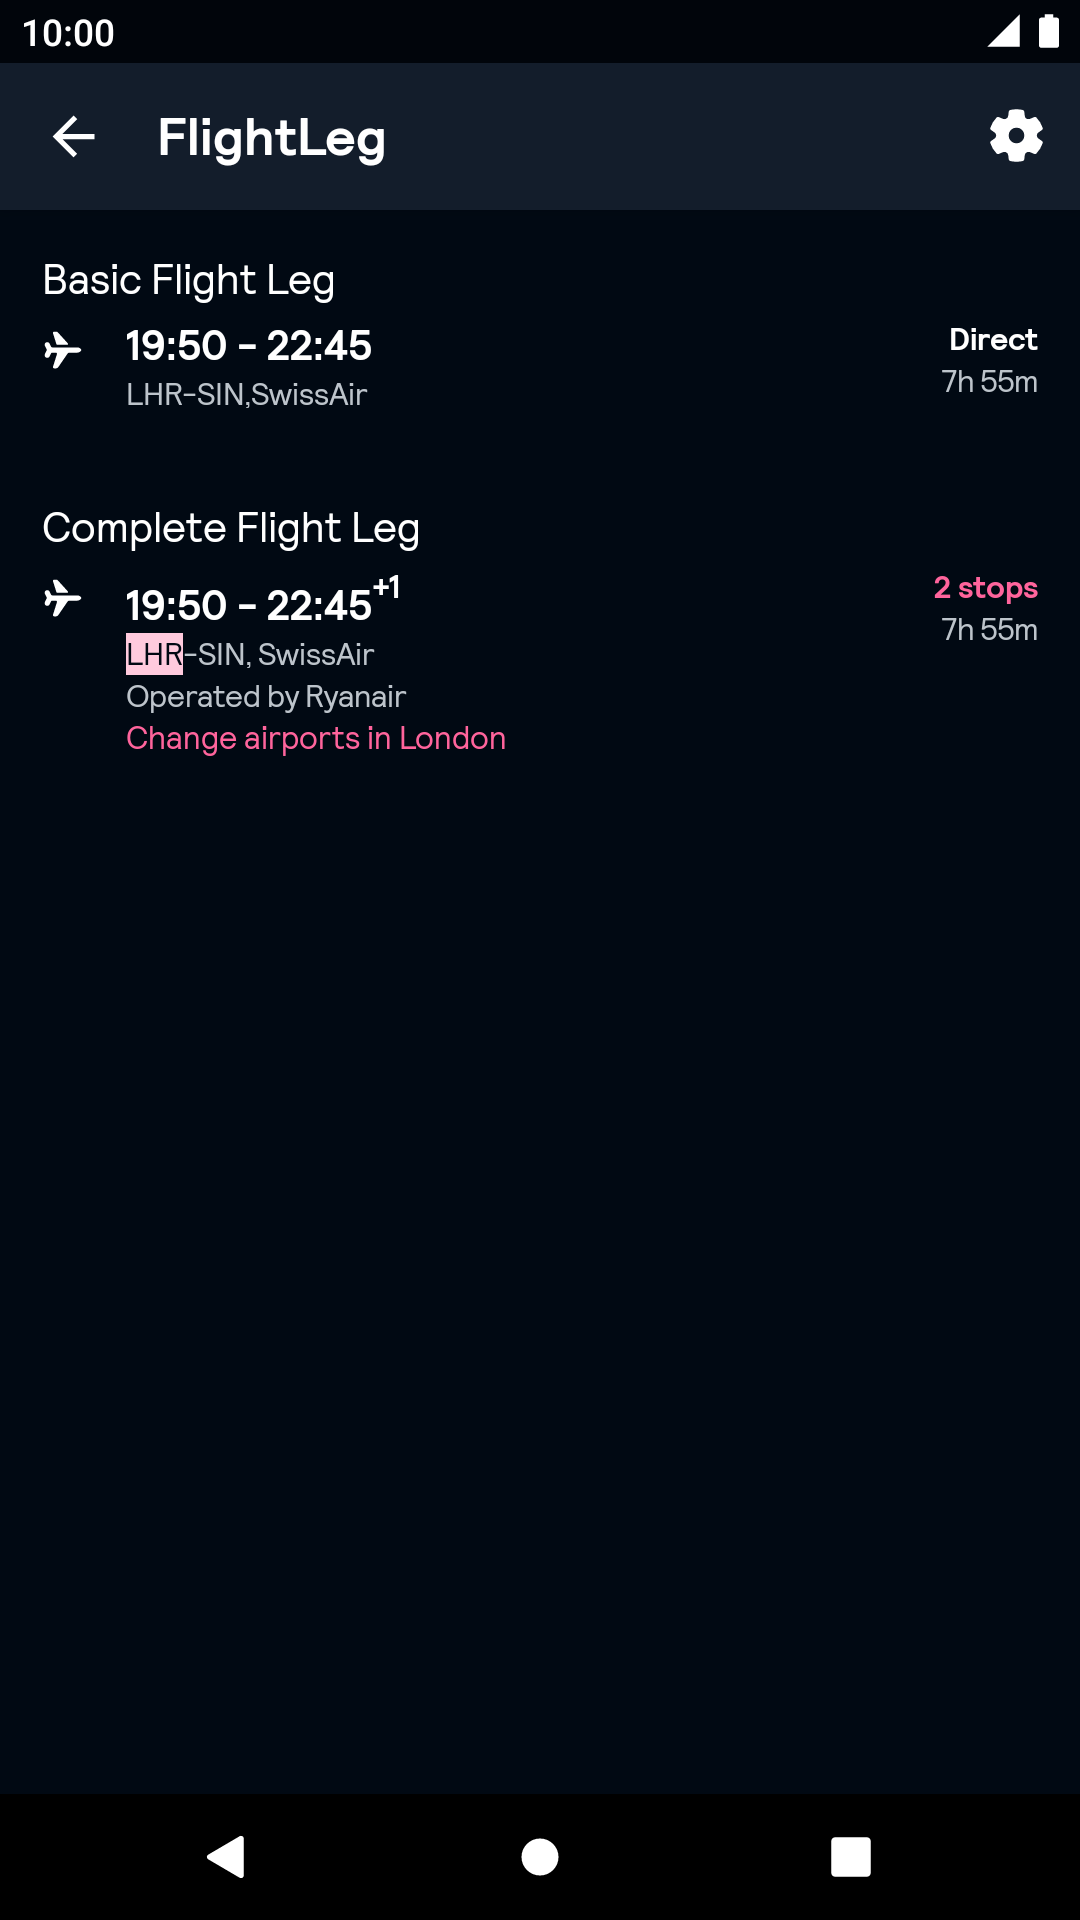
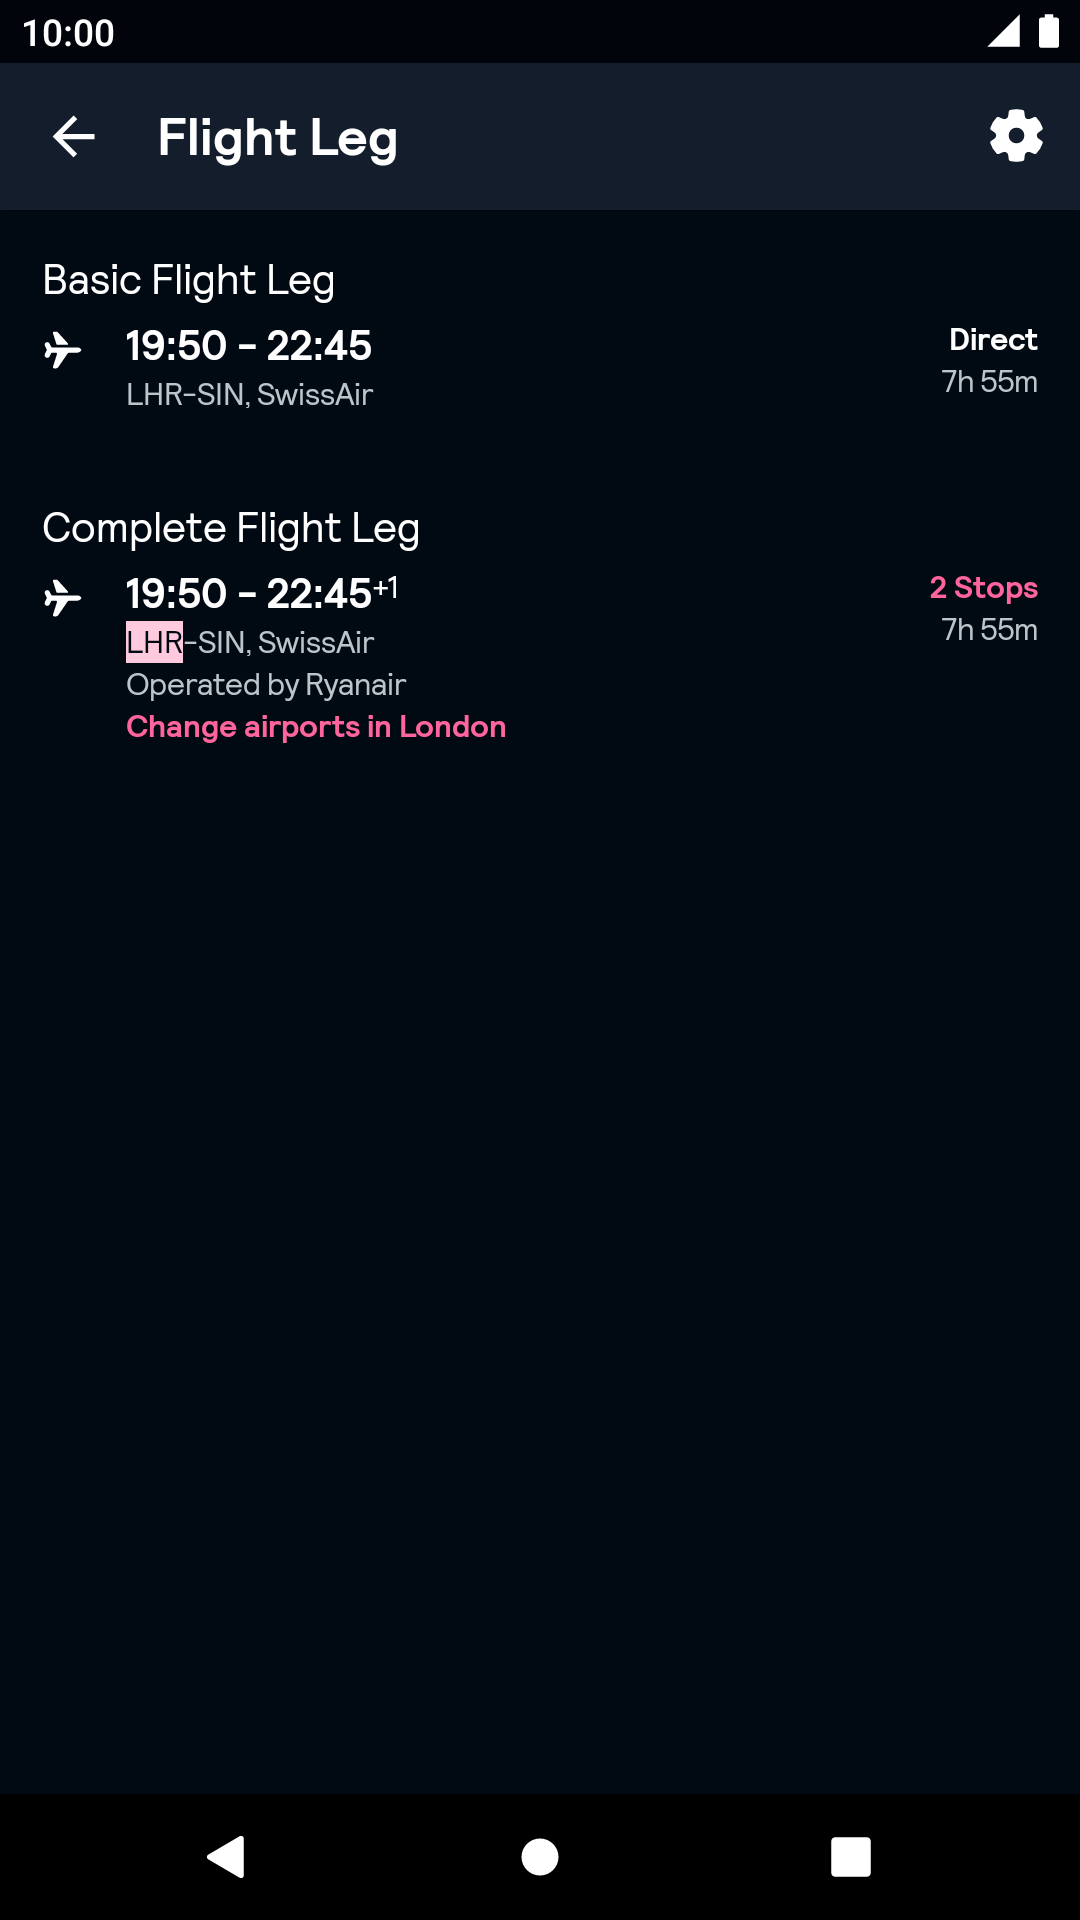
Creating the bpkAirportHighlightStyle

diff --git a/app/src/main/java/net/skyscanner/backpack/demo/compose/FlightLegStory.kt b/app/src/main/java/net/skyscanner/backpack/demo/compose/FlightLegStory.kt
@@ -28,14 +28,13 @@ import androidx.compose.runtime.Composable
 import androidx.compose.ui.Modifier
 import androidx.compose.ui.res.stringResource
 import androidx.compose.ui.text.AnnotatedString
-import androidx.compose.ui.text.SpanStyle
 import androidx.compose.ui.text.buildAnnotatedString
 import androidx.compose.ui.text.withStyle
 import net.skyscanner.backpack.compose.annotation.BpkPreviews
 import net.skyscanner.backpack.compose.flightleg.BpkFlightLeg
+import net.skyscanner.backpack.compose.flightleg.bpkAirportHighlightStyle
 import net.skyscanner.backpack.compose.icon.BpkIcon
 import net.skyscanner.backpack.compose.text.BpkText
-import net.skyscanner.backpack.compose.theme.BpkTheme
 import net.skyscanner.backpack.compose.tokens.Aircraft
 import net.skyscanner.backpack.compose.tokens.BpkSpacing
 import net.skyscanner.backpack.demo.R
@@ -78,10 +77,7 @@ fun CompleteFlightLegSample() {
     departureArrivalTime = "19:50 - 22:45",
     description = buildAnnotatedString {
       withStyle(
-        SpanStyle(
-          background = BpkTheme.colors.statusDangerFill,
-          color = BpkTheme.colors.textOnLight,
-        ),
+        bpkAirportHighlightStyle(),
       ) {
         append("LHR")
       }

diff --git a/backpack-compose/src/main/kotlin/net/skyscanner/backpack/compose/flightleg/BpkFlightLeg.kt b/backpack-compose/src/main/kotlin/net/skyscanner/backpack/compose/flightleg/BpkFlightLeg.kt
@@ -34,6 +34,7 @@ import androidx.compose.ui.semantics.contentDescription
 import androidx.compose.ui.semantics.invisibleToUser
 import androidx.compose.ui.semantics.semantics
 import androidx.compose.ui.text.AnnotatedString
+import androidx.compose.ui.text.SpanStyle
 import net.skyscanner.backpack.compose.text.BpkText
 import net.skyscanner.backpack.compose.theme.BpkTheme
 import net.skyscanner.backpack.compose.tokens.BpkSpacing
@@ -42,6 +43,10 @@ import net.skyscanner.backpack.compose.tokens.BpkSpacing
 @Composable
 fun BpkFlightLeg(
   departureArrivalTime: String,
+  /**
+   * Please use `bpkAirportHighlightStyle()` on your `SpanStyle` if you need to highlight an airport
+   * to indicate different arrival / departure airports between the legs. See the docs for usage example
+   */
   description: AnnotatedString,
   stopsInfo: String,
   duration: String,
@@ -130,3 +135,9 @@ fun BpkFlightLeg(
     }
   }
 }
+
+@Composable
+fun bpkAirportHighlightStyle() = SpanStyle(
+  background = BpkTheme.colors.statusDangerFill,
+  color = BpkTheme.colors.textOnLight,
+)

diff --git a/docs/compose/FlightLeg/README.md b/docs/compose/FlightLeg/README.md
@@ -6,9 +6,9 @@
 
 ## Default
 
-| Day | Night |
-| --- | --- |
-| <img src="https://raw.githubusercontent.com/Skyscanner/backpack-android/main/docs/compose/FlightLeg/screenshots/default.png" alt="FlightLeg component" width="375" /> | <img src="https://raw.githubusercontent.com/Skyscanner/backpack-android/main/docs/compose/FlightLeg/screenshots/default_dm.png" alt="FlightLeg component - dark mode" width="375" /> |
+| Day                                                                                                                                                                    | Night                                                                                                                                                                                 |
+|------------------------------------------------------------------------------------------------------------------------------------------------------------------------|---------------------------------------------------------------------------------------------------------------------------------------------------------------------------------------|
+| <img src="https://raw.githubusercontent.com/Skyscanner/backpack-android/main/docs/compose/FlightLeg/screenshots/default.png" alt="Flight Leg component" width="375" /> | <img src="https://raw.githubusercontent.com/Skyscanner/backpack-android/main/docs/compose/FlightLeg/screenshots/default_dm.png" alt="Flight Leg component - dark mode" width="375" /> |
 
 ## Installation
 
@@ -27,10 +27,7 @@ BpkFlightLeg(
   departureArrivalTime = "19:50 - 22:45",
   description = buildAnnotatedString {
     withStyle(
-      SpanStyle(
-        background = BpkTheme.colors.statusDangerFill,
-        color = BpkTheme.colors.textOnLight,
-      ),
+      bpkAirportHighlightStyle()
     ) {
       append("LHR")
     }
